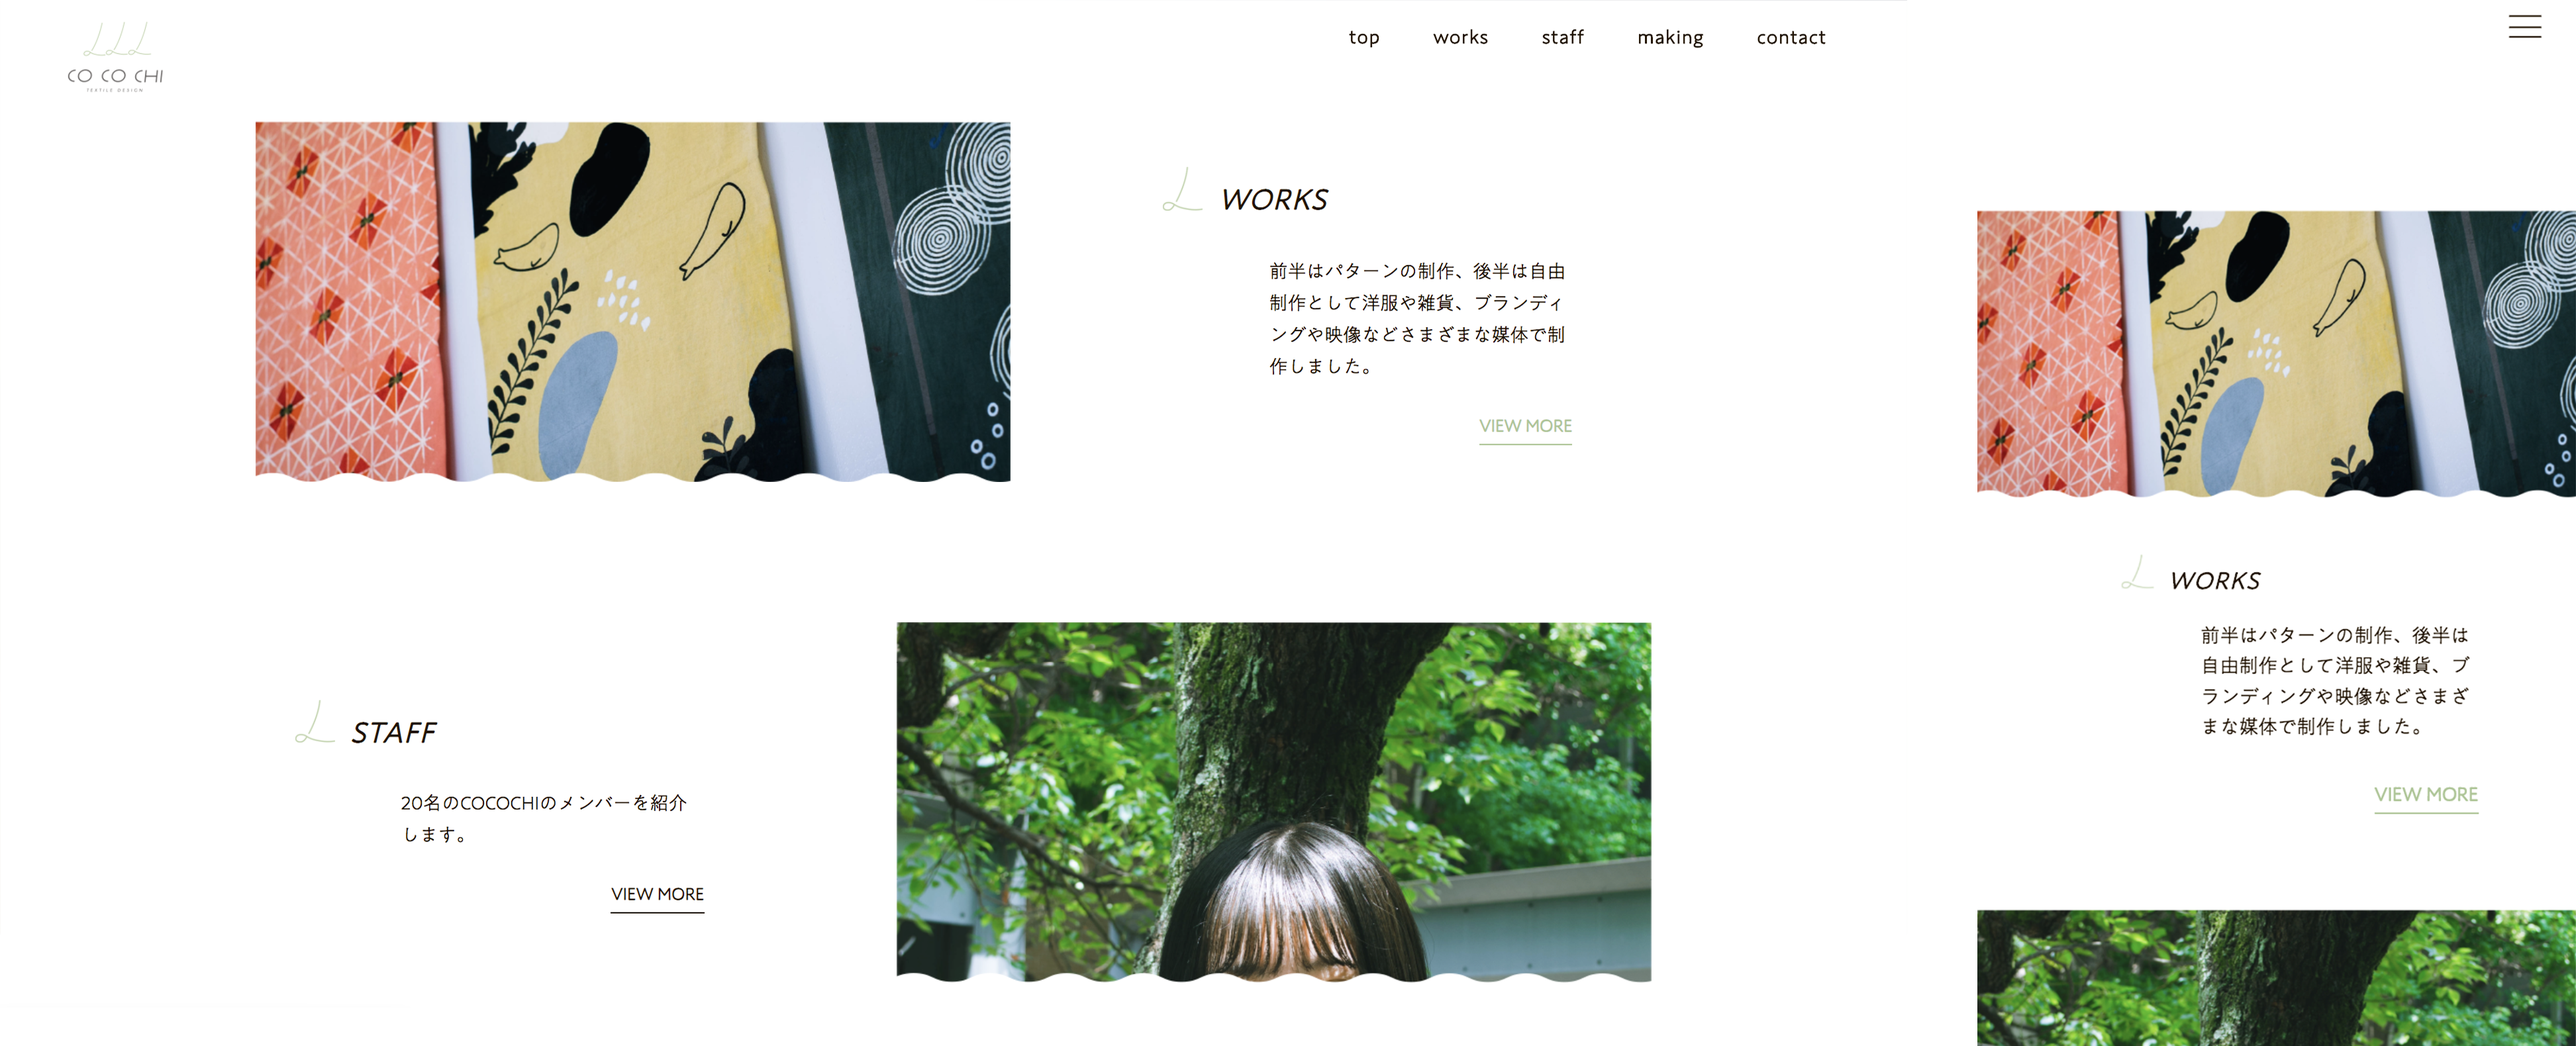
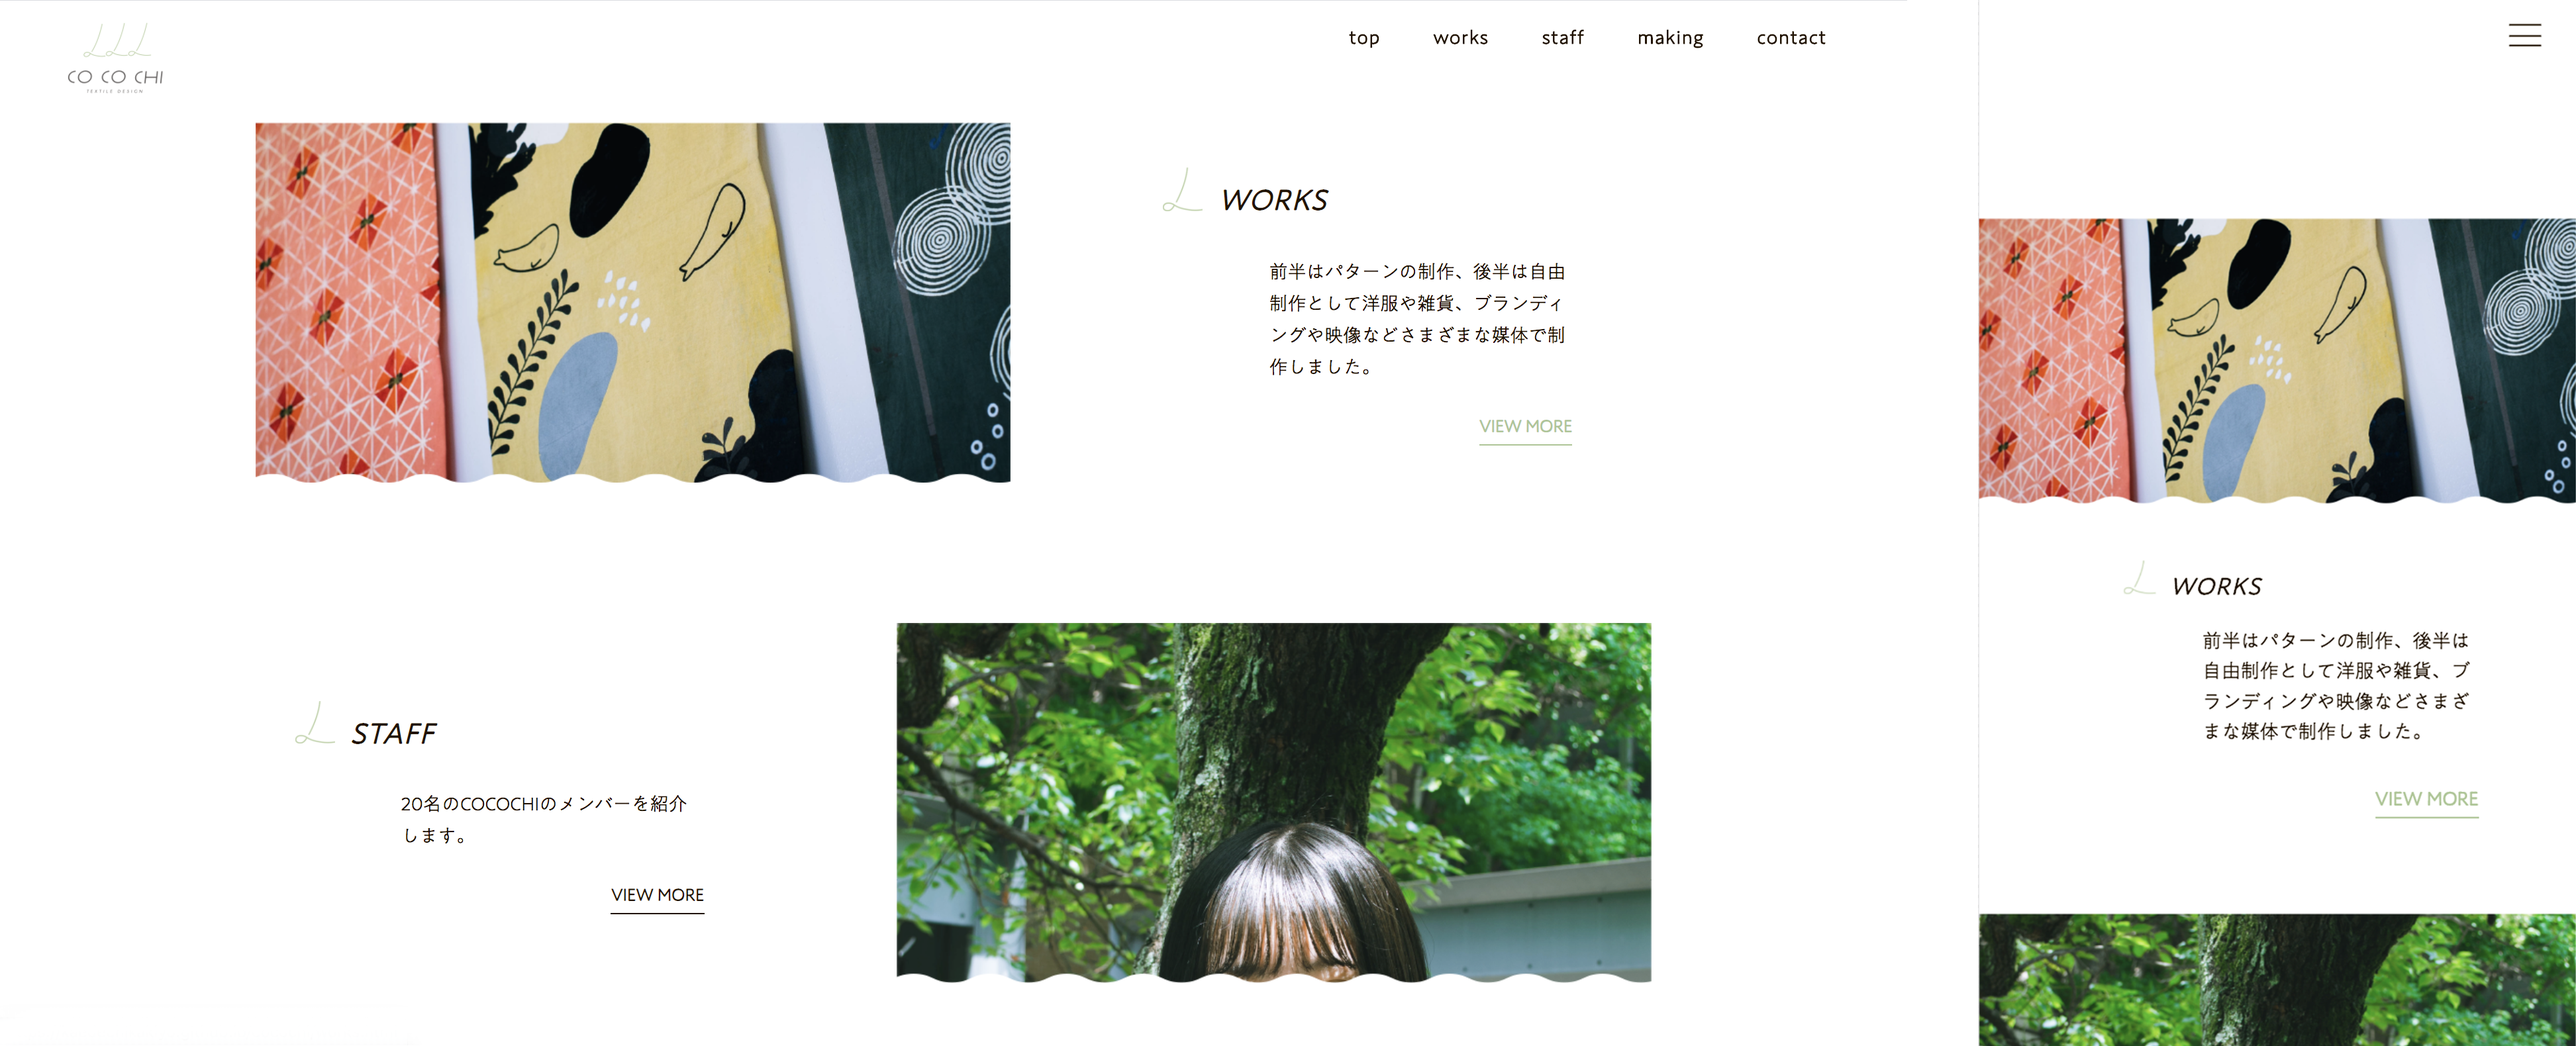
修正

diff --git a/pf_site.html b/pf_site.html
@@ -98,40 +98,34 @@
    <main> <!-- サイトの中心となる内容 -->
     
     <span class="setumei">
-    <h1>COCOCHI textile design</h1>
-    <h2>concept</h2> <h3>&nbsp;日常の中の心地よさ</h3>
+    <h1>PORTFOLIO SITE</h1>
+    <h2>concept</h2> <h3>&nbsp;自分を伝えるウェブサイト</h3>
       <div class="about">
-        <p>毎年夏に開催される"卓展"という大学の作品展で、私はCOCOCHIという日常の心地よさをテーマにテキスタイルデザインを制作する卓のグループ長を務めました。</br>
-        </br>卓展2020は、コロナの影響によりオンライン開催というかたちとなったため、グループの作品をまとめたWEBサイトを公開しています。htmlとcss、Javascriptを用いてデザインからコーディングまでを行い、より多くの方にご覧いただけるようにレスポンシブに対応しています。
+        <p>自分の過去の制作物をまとめた、ポートフォリオサイトを制作しました。作品が主役となるようにシンプルなデザインでまとめつつ、背景柄やメニューボタンをやわらかい印象にすることで、自分のデザインの特徴と合うようにまとめています。htmlとcss、Javascriptを用いてデザインからコーディングまでを行い、より多くの方に見てもらえるようレスポンシブに対応しています。
       </br>
       </br></br>
-      May 2020 - September 2020</br>
-      Textile, Logo, Web design | 卓展2020 </p></div>
+      August 2020 -</br>
+      Web design | 卓展2020 </p></div>
       </span>
       
 
 
-      <div class="work">
-        <img src="images/cocochi_1.png" alt="作品01"></div>
-       <!-- <div class="work">
-        <img src="images/cocochi_2.png" alt="作品01"></div> -->
-        
-        <!-- <div class="work">
-          <img src="images/cocochi_5.png" alt="作品01"></div> -->
+      <!-- <div class="work">
+        <img src="images/cocochi_1.png" alt="作品01"></div> -->
+
         
 
         <div class="work">
           <div id="slick01">
-          <img src="images/web_1_1.png" alt="アイキャッチ画像01">
-          <img src="images/web_1_2.png" alt="アイキャッチ画像01">
-          <img src="images/web_1_3.png" alt="アイキャッチ画像01">
-          <img src="images/web_1_4.png" alt="アイキャッチ画像01">
+          <img src="images/pfsite_1.png" alt="アイキャッチ画像01">
+          <img src="images/pfsite_2.png" alt="アイキャッチ画像01">
+          <img src="images/pfsite_3.png" alt="アイキャッチ画像01">
           </div>
         </div>
 
       
 
-        <a href="https://kaedechikakiyo.github.io/cocochi/index.html" style="text-decoration:none; color:#000000;" >→ COCOCHIのサイトを見る </a>
+        <!-- <a href="https://kaedechikakiyo.github.io/cocochi/index.html" style="text-decoration:none; color:#000000;" >→ COCOCHIのサイトを見る </a> -->
 
      </main>
 

diff --git a/index.html b/index.html
@@ -219,7 +219,16 @@
              <h2>ロフト名古屋/優待券</h2><p>Editrial design</p>
            </div>
           </div>   
-        </a>                 
+        </a>           
+        
+        <a href="pf_site.html">
+          <div class="work">
+              <img src="images/work16.jpg" alt="作品12">
+              <div class="hover-caption">
+               <h2>PORTOFORIO SITE</h2><p>Web design</p>
+             </div>
+            </div>   
+          </a>         
   
         
     </main>
